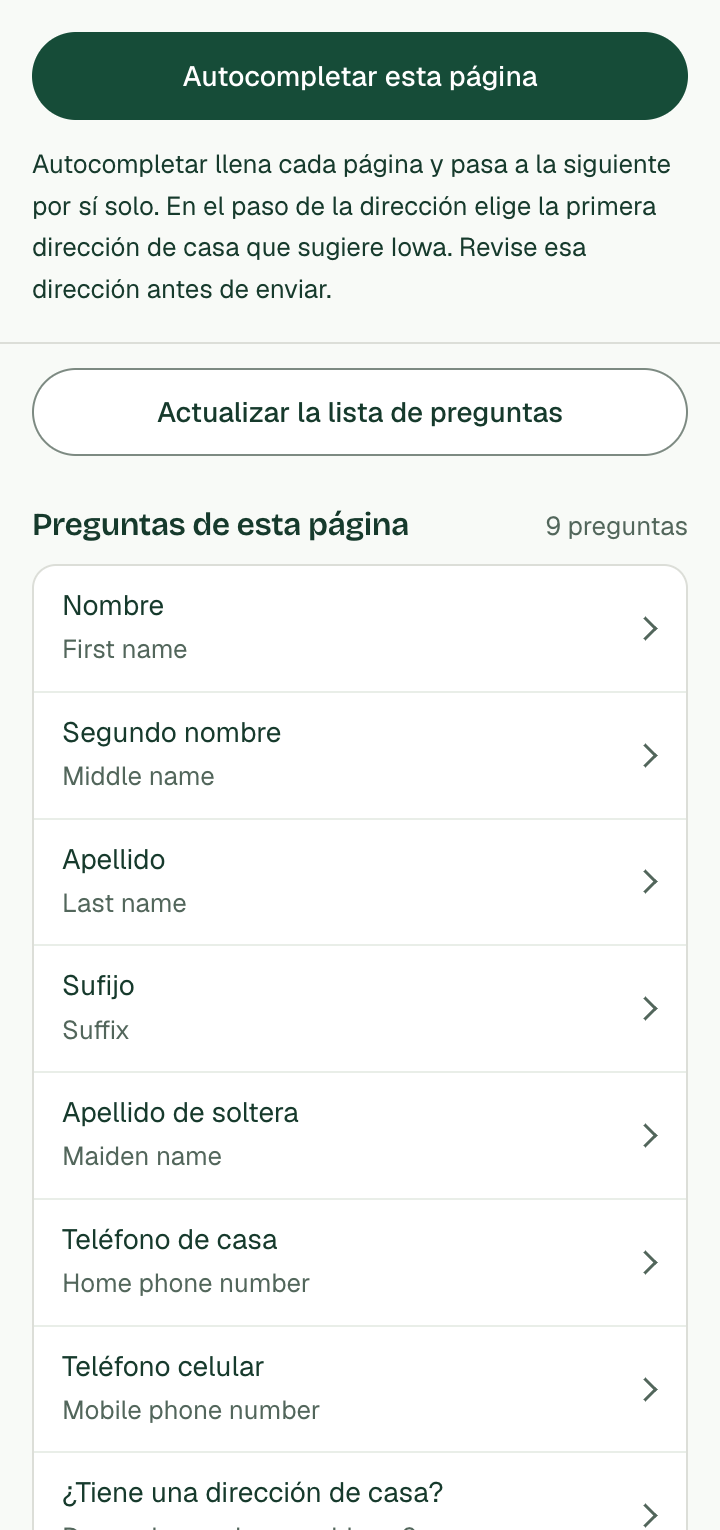
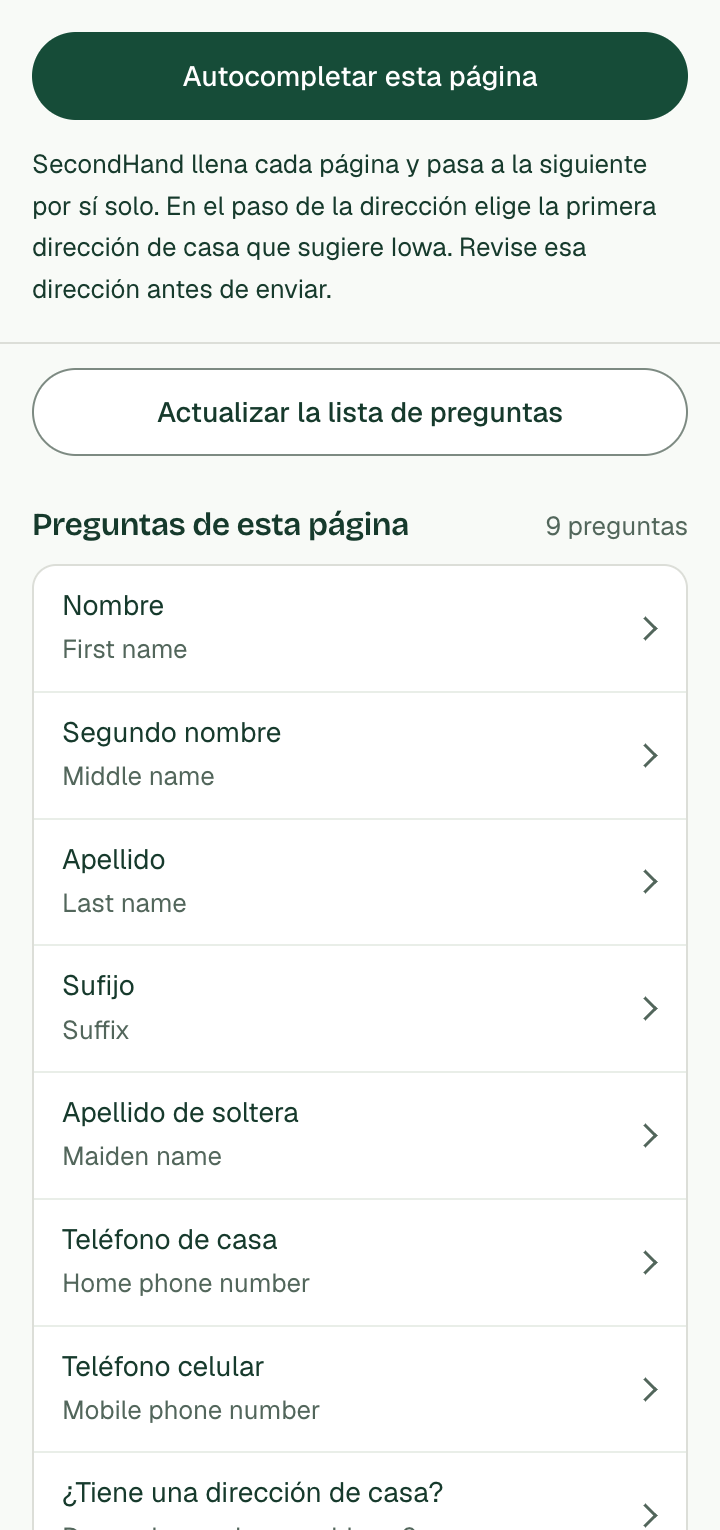
fix: say "el autocompletado" in Spanish where Autofill is a thing, not a button
"Detener Autocompletar", "Deteniendo Autocompletar…" and "Autocompletar
se detuvo" used the button's label as a noun and read as machine
translation. They are now "Detener el autocompletado", "Deteniendo el
autocompletado…" and "El autocompletado se detuvo". The note before
Autofill names SecondHand as the one that fills each page. Where a line
tells the reader to click the button, it keeps the button's name in
quotes.

Changed region(s): [[0.0306, 0.0922, 0.9167, 0.1229]]

diff --git a/extension/strings.js b/extension/strings.js
@@ -401,9 +401,9 @@
     'panel.framesEnable': 'También activar el formulario integrado',
     'panel.framesEnableHosts': 'También activar el formulario integrado ({hosts})',
     'panel.siteEnable': 'Activar SecondHand para este sitio',
-    'panel.iowaPolicy': 'Autocompletar llena cada página y pasa a la siguiente por sí solo. En el paso de la dirección elige la primera dirección de casa que sugiere Iowa. Revise esa dirección antes de enviar.',
+    'panel.iowaPolicy': 'SecondHand llena cada página y pasa a la siguiente por sí solo. En el paso de la dirección elige la primera dirección de casa que sugiere Iowa. Revise esa dirección antes de enviar.',
     'panel.autofill': 'Autocompletar esta página',
-    'panel.stopAutofill': 'Detener Autocompletar',
+    'panel.stopAutofill': 'Detener el autocompletado',
     'panel.goToLeft': { one: 'Ir a la pregunta que falta', other: 'Ir a la siguiente de las {count} preguntas que faltan' },
     'panel.checkingTab': 'Revisando la solicitud en su pestaña activa…',
     'panel.siteDisable': 'Desactivar SecondHand para este sitio',
@@ -416,7 +416,7 @@
     'panel.nothingToFill': 'No hay nada que llenar en esta página. Continúe en el formulario de Iowa.',
     'panel.openIowa': 'Abra la solicitud de SNAP de Iowa y su lista aparecerá aquí. En otro formulario de ayuda alimentaria, haga clic en el ícono de SecondHand junto a la barra de direcciones de Chrome.',
     'panel.openIowaLink': 'Abrir la solicitud de SNAP de Iowa',
-    'panel.stopping': 'Deteniendo Autocompletar…',
+    'panel.stopping': 'Deteniendo el autocompletado…',
     'panel.filling': 'Llenando sus respuestas guardadas…',
     'panel.fieldOffScreen': 'Ese campo no está en la pantalla ahora. Búsquelo en el formulario de Iowa.',
     'panel.chromeCouldntAskSite': 'Chrome no pudo pedir acceso a este sitio.',
@@ -528,7 +528,7 @@
     'worker.autofillFailed': 'No se pudo autocompletar. Llene esta página usted mismo.',
     'worker.authorizationOutdated': 'Actualice y vuelva a abrir SecondHand, y luego recargue esta extensión. Su respuesta de autorización es de una versión anterior.',
     'worker.accessChanged': 'El acceso en la aplicación de escritorio cambió. Revise la página y luego haga clic en “Autocompletar” otra vez.',
-    'worker.pilotStopped': 'Autocompletar se detuvo. No se llenará ni se avanzará nada más.',
+    'worker.pilotStopped': 'El autocompletado se detuvo. No se llenará ni se avanzará nada más.',
     'worker.noProfileFields': 'La aplicación de escritorio no devolvió campos de perfil compatibles.',
     'worker.pageChangedAutofill': 'La página cambió. Haga clic en “Autocompletar” otra vez.',
     'worker.pageUnsafe': 'Esta página no se pudo llenar de forma segura. Llénela usted mismo.',
@@ -541,7 +541,7 @@
     'worker.stoppedAfterSteps': 'Se detuvo después de {steps} pasos. Revise esta página y luego haga clic en “Autocompletar” para seguir.',
     'worker.continuing': 'Continuando…',
     'worker.unknownPage': 'SecondHand todavía no conoce esta página. Llénela y luego continúe.',
-    'worker.autofillStopped': 'Autocompletar se detuvo. No se borró nada.',
+    'worker.autofillStopped': 'El autocompletado se detuvo. No se borró nada.',
     'worker.checkThenContinue': 'Revise sus respuestas y luego haga clic en “Continue”.',
     'worker.turnOnSiteFirst': 'Primero active SecondHand para este sitio en el panel lateral.',
     'worker.openFormActiveTab': 'Abra el formulario en la pestaña activa y vuelva a intentarlo.',
@@ -563,7 +563,7 @@
     'worker.turnOnFrameFirst': 'Primero active SecondHand para este formulario integrado.',
     'worker.useToolbarIcon': 'Use el ícono de SecondHand en la barra de herramientas para abrir el panel lateral.',
     'worker.requestFailed': 'SecondHand no pudo completar la solicitud.',
-    'worker.stoppedTabChanged': 'Autocompletar se detuvo porque cambió la pestaña activa.',
+    'worker.stoppedTabChanged': 'El autocompletado se detuvo porque cambió la pestaña activa.',
     'worker.questionsUnreadable': 'SecondHand no pudo leer las preguntas de esta página. Recargue la página y vuelva a intentarlo.',
     'worker.pageTextUnreadable': 'SecondHand no pudo leer el texto de esta página. Recargue la página y vuelva a intentarlo.',
     'worker.navigationExpired': 'La página cambió o su vista previa de navegación venció. Revísela otra vez.',
